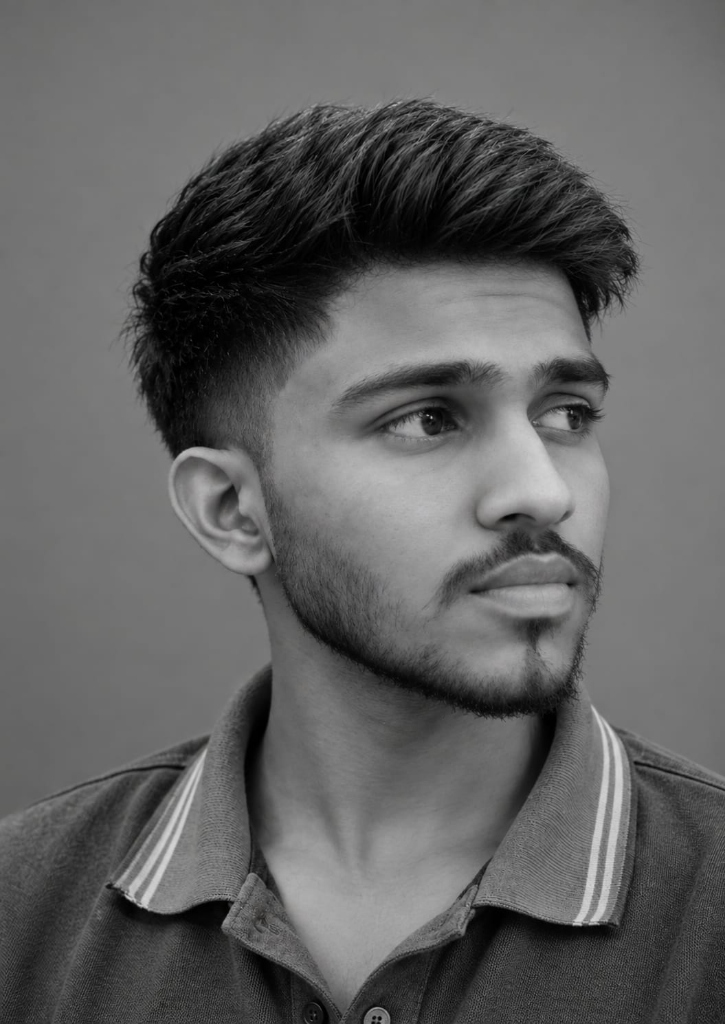
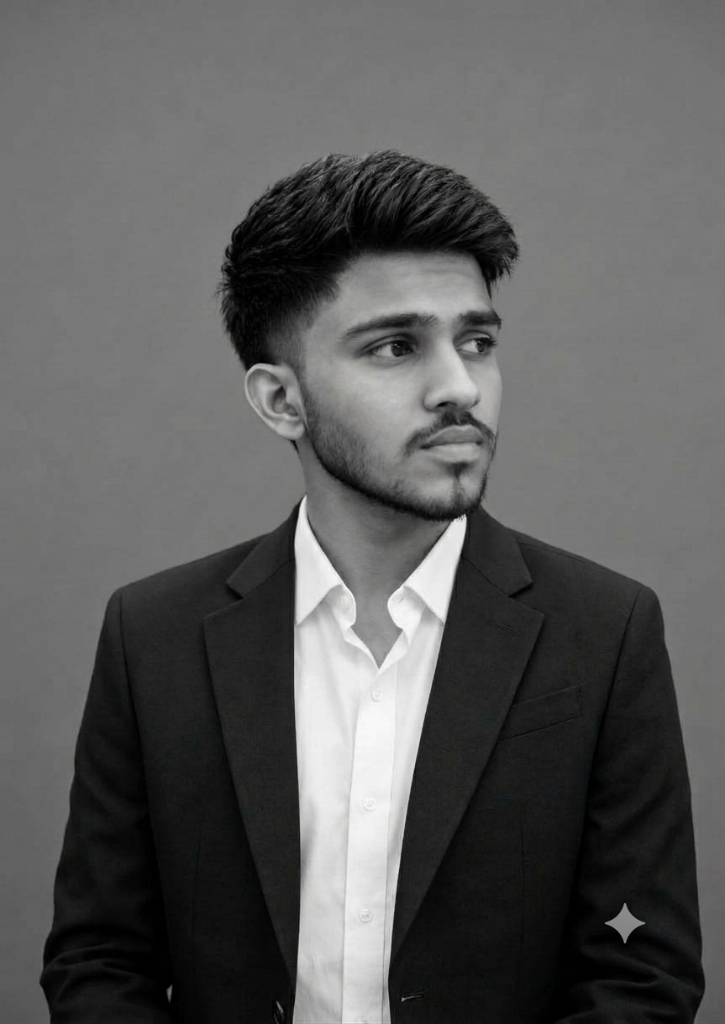
fix: update Mayur Unagar's role to co-founder and update profile image

diff --git a/src/components/about/AboutTeam.jsx b/src/components/about/AboutTeam.jsx
@@ -4,7 +4,7 @@ import { motion } from 'framer-motion';
 export default function AboutTeam() {
   const members = [
     {
-      roleHeader: " & TECHNICAL DIRECTOR",
+      roleHeader: "CO-FOUNDER & TECHNICAL DIRECTOR",
       badge: "*",
       img: "/team/mayur-unagar.png",
       gradient: "linear-gradient(90deg, #9333ea 0%, #f97316 100%)",
